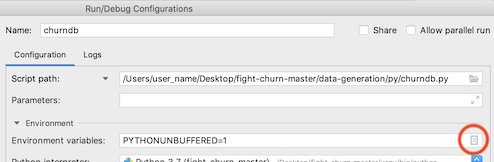
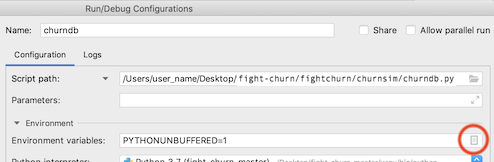
More instruction updates including image updates

Changed region(s): [[0.4555, 0.463, 0.9413, 0.5556]]

diff --git a/readme_files/ide.md b/readme_files/ide.md
@@ -56,6 +56,7 @@ You will add more packages in a minute, but first finish with the project setup 
 Then select the root folder of the downloaded code. You should see some like this (at your own source code location):
 
 ![pycharm5A_project_structure](pycharm5A_project_structure.png)
+**TODO**: Update image to `churnsim` (instead of `datagen`)
 
 Select the `fightchurn` folder that contains python source code, and click on the button *Sources*
 (with the blue folder next to it):
@@ -204,7 +205,7 @@ PyCharm, or prepared the Jupyter notebook `churn_db_sim.ipnyb`.  There's just on
 If everything works as planned you should see something like the following output:
 
 ```
-/Users/user_name/fight-churn-master/venv/bin/python /Users/user_name/fight-churn-master/fightchurn/churnsim/churndb.py
+/Users/user_name/fight-churn/venv/bin/python /Users/user_name/fight-churn/fightchurn/churnsim/churndb.py
 Creating schema test (if not exists)...
 Creating table event (if not exists)
 Creating table subscription (if not exists)
@@ -245,7 +246,7 @@ To run the basic simulation described in the book:
 If this is your first time following these instructions, just run it.  You should start to see output like this:
 
 ```
-/Users/user_name/fight-churn-master/venv/bin/python /Users/user_name/fight-churn-master/fightchurn/churnsim/churnsim.py
+/Users/user_name/fight-churn/venv/bin/python /Users/user_name/fight-churn/fightchurn/churnsim/churnsim.py
 
 Creating 10000 initial customers for 2019-01-01 start date
 Simulated customer 0: 5 subscription, 10243 events @ 2019-05-21 06:00:01.611085
